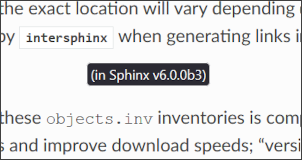
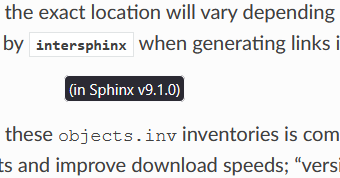
Freshen/update some docs bits

diff --git a/doc/source/syntax.rst b/doc/source/syntax.rst
@@ -5,8 +5,8 @@ Sphinx objects.inv v2 Syntax
 
 After decompression, "version 2" Sphinx |objects.inv| files follow a syntax
 that, to the best of this author's ability to determine, is not included in the
-Sphinx documentation. The below syntax is believed to be accurate as of May 2024
-(Sphinx v7.3.7). It is based on inspection of |objects.inv| files "in the
+Sphinx documentation. The below syntax is believed to be accurate as of March 2026
+(Sphinx v9.1.0). It is based on inspection of |objects.inv| files "in the
 wild" and of the Sphinx inventory object `parsing regex`_.
 
 Based upon a quick ``git diff`` of the `Sphinx repository
@@ -194,7 +194,7 @@ of cross-references from other documentation source.
 
 **For illustration**, the following is the entry for the
 :meth:`join() <str.join>` method of the :class:`str` class in the
-Python 3.12 |objects.inv|, broken out field-by-field:
+Python 3.14 |objects.inv|, broken out field-by-field:
 
 .. code-block:: none
 

diff --git a/doc/source/customfile.rst b/doc/source/customfile.rst
@@ -143,7 +143,7 @@ can be found at the GitHub repo
 
             intersphinx_mapping = {
                 # Standard reference to web docs, with web objects.inv
-                'python': ('https://docs.python.org/3.13', None),
+                'python': ('https://docs.python.org/3.14', None),
 
                 # Django puts its objects.inv file in a non-standard location
                 'django': ('https://docs.djangoproject.com/en/dev/', 'https://docs.djangoproject.com/en/dev/_objects/'),

diff --git a/doc/source/index.rst b/doc/source/index.rst
@@ -57,6 +57,8 @@ and package managers, including:
 
   * Arch Linux: ``python-sphobjinv``
 
+  * Debian: ``python-sphobjinv`` (`info <https://packages.debian.org/stable/source/python-sphobjinv>`__)
+
   * Fedora: ``python-sphobjinv`` (`info <https://src.fedoraproject.org/rpms/python-sphobjinv>`__)
 
   * Gentoo: ``dev-python/sphobjinv`` (`info <https://gitweb.gentoo.org/repo/gentoo.git/tree/dev-python/sphobjinv>`__)
